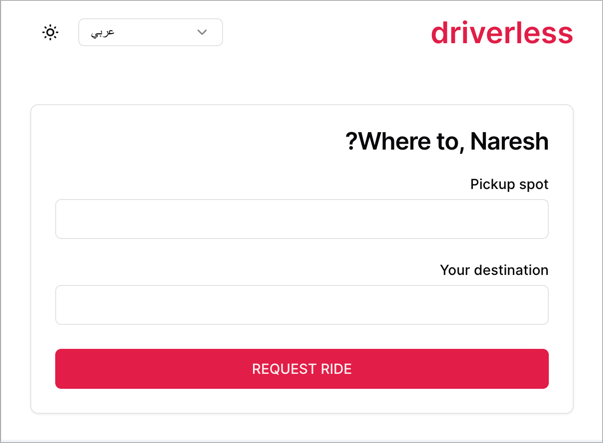
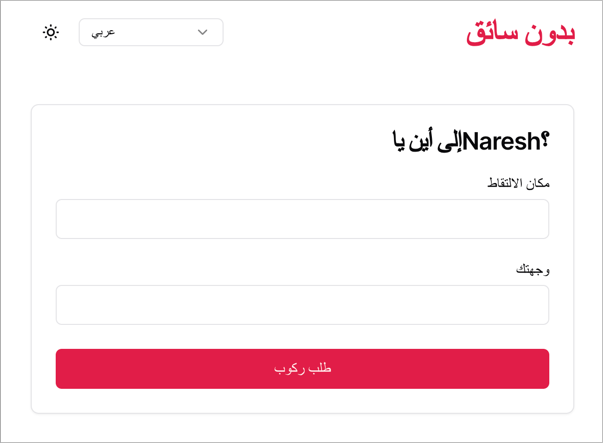
fix: fix issue with 4 language translations

diff --git a/README.md b/README.md
@@ -2,20 +2,29 @@
 
 A sample app to demonstrate i18n & l10n concepts using some popular libraries.
 
-> Note: only English and German translations are currently working. For some
-> reason, Arabic, Spanish, Hindi & Italian translations are not working.
-
 #### Screenshot - English
 
 ![Screenshot - English](assets/screenshot-en.png)
+
+#### Screenshot - Arabic
+
+![Screenshot - Arabic](assets/screenshot-ar.png)
 
 #### Screenshot - German
 
 ![Screenshot - German](assets/screenshot-de.png)
 
-#### Screenshot - Arabic
+#### Screenshot - Hindi
 
-![Screenshot - Arabic](assets/screenshot-ar.png)
+![Screenshot - Hindi](assets/screenshot-hi.png)
+
+#### Screenshot - Italian
+
+![Screenshot - Italian](assets/screenshot-it.png)
+
+#### Screenshot - Spanish
+
+![Screenshot - Spanish](assets/screenshot-es.png)
 
 ## Prerequisites for development
 
